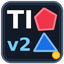
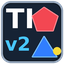
Fix V2 plugin loading conflict
- Fixed a plugin naming conflict that caused Maya to load an older V2 version.
- Updated the TI v2 shelf icon for better readability.
- Improved shelf button updates and installation behavior.
- Updated documentation for the latest V2 release.

diff --git a/TopologyInspector_DragDrop_V2.py b/TopologyInspector_DragDrop_V2.py
@@ -9,6 +9,7 @@ The tool only creates a temporary non-renderable overlay node. It never edits
 inspected mesh faces, materials, UVs, vertex colors, or construction history.
 
 Compatibility target: Maya 2022+ (Python 3). Maya runtime testing required.
+2026-10-11 maintenance update: isolated runtime prevents cached V2.1 UI from reopening.
 """
 
 import os
@@ -29,13 +30,13 @@ def maya_useNewAPI():
     pass
 
 
-PLUGIN_NODE = 'tiViewportOverlayShapeV21'
-PLUGIN_COMMAND = 'topologyInspectorV21UI'
+PLUGIN_NODE = 'tiViewportOverlayShapeV2B20261011'
+PLUGIN_COMMAND = 'topologyInspectorV2B20261011UI'
 # Per-plugin node IDs must be unique in Maya's running session.
-NODE_ID = om.MTypeId(0x0013B9D8)
-CLASSIFICATION = 'drawdb/geometry/tiViewportOverlayShapeV21'
-REGISTRANT_ID = 'TopologyInspectorVP2RegistrantV21'
-WINDOW_NAME = 'TopologyInspectorWindowV21'
+NODE_ID = om.MTypeId(0x0013B9E1)
+CLASSIFICATION = 'drawdb/geometry/tiViewportOverlayShapeV2B20261011'
+REGISTRANT_ID = 'TopologyInspectorVP2RegistrantV2B20261011'
+WINDOW_NAME = 'TopologyInspectorWindowV2B20261011'
 
 _KEYS = ('ngon_fill', 'ngon_lines', 'tri_fill', 'tri_lines',
          'error_fill', 'error_lines', 'error_points')
@@ -360,7 +361,7 @@ class InspectorWindow(object):
         if cmds.window(WINDOW_NAME, exists=True):
             cmds.deleteUI(WINDOW_NAME)
         self.window = cmds.window(WINDOW_NAME,
-                                  title='Topology Inspector V2 | Multi-Object QA',
+                                  title='Topology Inspector V2 | Updated 2026-10-11',
                                   sizeable=True, widthHeight=(575, 590))
         main = cmds.columnLayout(adjustableColumn=True, rowSpacing=7,
                                  columnAttach=('both', 12))
@@ -458,9 +459,9 @@ class InspectorWindow(object):
     def ensure_overlay(self):
         if self.overlay_transform and cmds.objExists(self.overlay_transform):
             return
-        self.overlay_transform = cmds.createNode('transform', name='__TI_ViewportOverlay_TEMP_V21__')
+        self.overlay_transform = cmds.createNode('transform', name='__TI_ViewportOverlay_TEMP_V2B20261011__')
         self.overlay_shape = cmds.createNode(PLUGIN_NODE, parent=self.overlay_transform,
-                                              name='__TI_ViewportOverlayShape_TEMP_V21__')
+                                              name='__TI_ViewportOverlayShape_TEMP_V2B20261011__')
         cmds.setAttr(self.overlay_transform + '.hiddenInOutliner', True)
         try:
             cmds.setAttr(self.overlay_shape + '.hiddenInOutliner', True)
@@ -714,9 +715,11 @@ class TIInspectorCommand(om.MPxCommand):
 # ----------------------------- DRAG-DROP INSTALLER --------------------------
 _TI_BUTTON = 'TI_TopologyInspector_V2_Button'
 _TI_DOC_TAG = 'TopologyInspector_DragDrop_V2'
-_TI_ICON_FILE = 'TI_TopologyInspector_V2.png'
+_TI_ICON_FILE = 'TI_TopologyInspector_V2_20261011B_32.png'
+_TI_ICON_FILE_LARGE = 'TI_TopologyInspector_V2_20261011B_64.png'
 _TI_INSTALLED_FOLDER = 'TopologyInspector'
[3 lines of base64/hex data omitted]
 
 
 def _plugin_loaded():
@@ -736,7 +739,8 @@ def _close_old_tool_windows():
             commands = cmds.pluginInfo(plugin, query=True, command=True) or []
             if not any(x in commands for x in
                        ('topologyInspectorUI', 'topologyInspectorV13UI',
-                        'topologyInspectorV14UI', 'topologyInspectorV2UI')):
+                        'topologyInspectorV14UI', 'topologyInspectorV2UI',
+                        'topologyInspectorV21UI', 'topologyInspectorV2B20261011UI')):
                 continue
             module = sys.modules.get(os.path.splitext(os.path.basename(plugin))[0])
             ui = getattr(module, '_UI', None)
@@ -746,14 +750,16 @@ def _close_old_tool_windows():
             cmds.warning('[Topology Inspector] Prior window cleanup: {}'.format(exc))
 
     for name in ('TopologyInspectorWindow', 'TopologyInspectorWindowV13',
-                 'TopologyInspectorWindowV14', 'TopologyInspectorWindowV2'):
+                 'TopologyInspectorWindowV14', 'TopologyInspectorWindowV2',
+                 'TopologyInspectorWindowV21'):
         try:
             if cmds.window(name, exists=True):
                 cmds.deleteUI(name, window=True)
         except Exception:
             pass
     for node_type in ('tiViewportOverlayShape', 'tiViewportOverlayShapeV13',
-                      'tiViewportOverlayShapeV14', 'tiViewportOverlayShapeV2'):
+                      'tiViewportOverlayShapeV14', 'tiViewportOverlayShapeV2',
+                      'tiViewportOverlayShapeV21'):
         try:
             shapes = cmds.ls(type=node_type, long=True) or []
         except Exception:
@@ -800,12 +806,12 @@ def _shelf_command(installed_file):
         'import maya.cmds as cmds\n'
         '_ti_v2_loaded = False\n'
         'for _ti_plug in (cmds.pluginInfo(query=True, listPlugins=True) or []):\n'
-        '    if "topologyInspectorV21UI" in (cmds.pluginInfo(_ti_plug, query=True, command=True) or []):\n'
+        '    if "topologyInspectorV2B20261011UI" in (cmds.pluginInfo(_ti_plug, query=True, command=True) or []):\n'
         '        _ti_v2_loaded = True\n'
         '        break\n'
         'if not _ti_v2_loaded:\n'
         '    cmds.loadPlugin({!r}, quiet=True)\n'
-        'cmds.topologyInspectorV21UI()\n'
+        'cmds.topologyInspectorV2B20261011UI()\n'
     ).format(installed_file.replace('\\', '/'))
 
 
@@ -816,21 +822,19 @@ def _install_shelf(installed_file, icon_path):
     for child in children:
         if not cmds.shelfButton(child, exists=True):
             continue
-        if child.rsplit('|', 1)[-1] in (
-                _TI_BUTTON, 'TI_TopologyInspector_Button',
-                'TI_TopologyInspector_V13_Button', 'TI_TopologyInspector_V14_Button'):
+        if child.rsplit('|', 1)[-1] == _TI_BUTTON:
             existing = child
             break
         try:
             if cmds.shelfButton(child, query=True, docTag=True) in (
-                    _TI_DOC_TAG, 'TopologyInspector_DragDrop_V21', 'TopologyInspector_DragDrop',
-                    'TopologyInspector_DragDrop_V13', 'TopologyInspector_DragDrop_V14'):
+                    _TI_DOC_TAG, 'TopologyInspector_DragDrop_V21'):
                 existing = child
                 break
         except Exception:
             pass
     opts = dict(annotation='Topology Inspector V2: color-coded multi-object check',
                 label='Topology Inspector V2', image1=icon_path.replace('\\', '/'),
+                image2=icon_path.replace('_32.png', '_64.png').replace('\\', '/'),
                 imageOverlayLabel='', sourceType='python',
                 command=_shelf_command(installed_file), docTag=_TI_DOC_TAG)
     if existing:
@@ -863,7 +867,7 @@ def ti_install_from_file(source):
     _active_shelf()
     install_dir = os.path.join(cmds.internalVar(userScriptDir=True), _TI_INSTALLED_FOLDER)
     os.makedirs(install_dir, exist_ok=True)
-    installed = os.path.join(install_dir, 'TopologyInspector_Runtime_V2.py')
+    installed = os.path.join(install_dir, 'TopologyInspector_Runtime_V2_20261011B.py')
     same_file = os.path.normcase(source) == os.path.normcase(os.path.abspath(installed))
     if not _plugin_loaded():
         if not same_file:
@@ -878,15 +882,18 @@ def ti_install_from_file(source):
     icon_path = os.path.join(icon_dir, _TI_ICON_FILE)
     with open(icon_path, 'wb') as f:
         f.write(base64.b64decode(_TI_ICON_BASE64))
+    icon_large_path = os.path.join(icon_dir, _TI_ICON_FILE_LARGE)
+    with open(icon_large_path, 'wb') as f:
+        f.write(base64.b64decode(_TI_ICON_LARGE_BASE64))
 
     shelf_name = _install_shelf(installed, icon_path)
     getattr(cmds, PLUGIN_COMMAND)()
     try:
         if cmds.window(WINDOW_NAME, exists=True):
-            cmds.window(WINDOW_NAME, edit=True, title='Topology Inspector V2 | Multi-Object QA')
+            cmds.window(WINDOW_NAME, edit=True, title='Topology Inspector V2 | Updated 2026-10-11')
     except Exception:
         pass
-    message = 'Topology Inspector V2 installed on {} shelf'.format(shelf_name)
+    message = 'Topology Inspector V2 (2026-10-11 update) installed on {} shelf'.format(shelf_name)
     print('[Topology Inspector] ' + message)
     try:
         cmds.inViewMessage(amg=message, pos='topCenter', fade=True)

diff --git a/README.md b/README.md
@@ -47,7 +47,9 @@ Yellow is drawn last when problem areas overlap. **Not every triangle is an erro
 
 **One-file installer:** The PNG shown in this repository is for preview and documentation. The shelf icon is already **embedded inside the Python installer**, so the PNG does **not** need to be downloaded separately.
 
-**Upgrading from V1 or earlier V2 builds:** The V2 installer does not forcibly unload plugins that Maya still has in use. It updates a matching existing TI button on the active shelf. Maya might retain an older already-loaded UI until restarted; if the wrong build continues to appear, restart Maya and click **TI v2** again. Existing V1 `.py` remains available in this repository.
+**Upgrading from previous V2 builds:** Download the new `TopologyInspector_DragDrop_V2.py` and drag it into Maya again with the target Shelf selected. This maintenance build uses a new **internal Maya command and runtime filename** so Maya does not accidentally relaunch a previously loaded V2 / V2.1 build. It updates the matching V2 Shelf button. The legacy V1 button is not replaced. The window title should read **Topology Inspector V2 | Updated 2026-10-11**.
+
+If the old window remains, close it. If the Shelf still shows the old icon after installation, restart Maya once to refresh Maya's image cache, then click the updated V2 button. If the tool appears with the old title, the old Shelf button may still exist in another Shelf tab; install V2 on that tab or remove its old button via Shelf Editor.
 
 ### Alternative launch (after installation)
 
@@ -55,10 +57,10 @@ Click the **TI v2** shelf button. Advanced users can also open Maya **Script Edi
 
 ```python
 import maya.cmds as cmds
-cmds.topologyInspectorV21UI()
+cmds.topologyInspectorV2B20261011UI()
 ```
 
-The `V21` suffix above is an **internal compatibility identifier**, not the public release number. Do not change internal Maya command / node IDs without updating the plugin migration logic.
+The long build-specific suffix above is an **internal cache/upgrade identifier**, not the public release number. Do not change internal Maya command / node IDs without updating the plugin migration logic.
 
 ## Usage
 
@@ -91,7 +93,7 @@ The `V21` suffix above is an **internal compatibility identifier**, not the publ
 
 ## Development notes
 
-The tool uses `maya.cmds`, `maya.api.OpenMaya`, `maya.api.OpenMayaUI`, and `maya.api.OpenMayaRender`. Public release filenames use **V1** and **V2**; internal plugin identifiers may differ to support upgrades alongside plugins Maya already has loaded. The shelf icon is packaged inside the Python file.
+The tool uses `maya.cmds`, `maya.api.OpenMaya`, `maya.api.OpenMayaUI`, and `maya.api.OpenMayaRender`. Public release filenames use **V1** and **V2**; internal plugin identifiers may differ to support upgrades alongside plugins Maya already has loaded. The 32px and 64px shelf icon images are embedded in the Python installer.
 
 ## License
 
